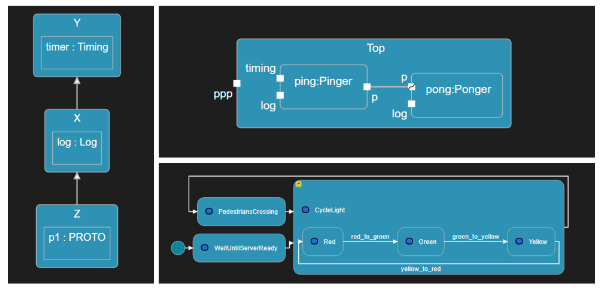
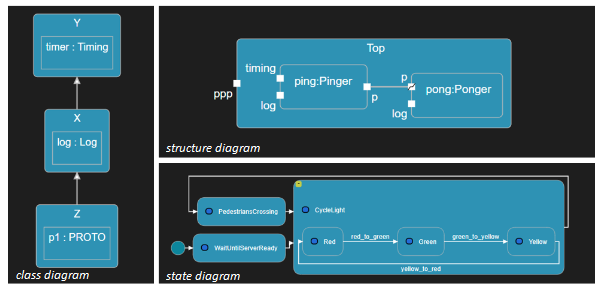
RIC-164: Doc for diagrams

Changed region(s): [[0.2812, 0.9278, 0.4062, 0.9897], [0.25, 0.4948, 0.4375, 0.5258], [0.0312, 0.9278, 0.1562, 0.9588]]

diff --git a/docs-sources/working-with-art/diagrams.md b/docs-sources/working-with-art/diagrams.md
@@ -1,0 +1,74 @@
+Art is a textual language but there is also a graphical notation for many parts of the language. You can therefore visualize (and to some extent also edit) some of the Art elements using graphical diagrams. The following diagrams can be used:
+
+* **State Diagram** Shows the state machine of a capsule or class. A single diagram can show all states, pseudo states and transitions also for hierarchical state machines.
+* **Structure Diagram** Shows the composite structure of a capsule. A single diagram can show all parts, ports and connectors also for hierarchical composite structures.
+* **Class Diagram** Shows how capsules, classes and protocols are related by means of inheritance relationships. Also shows ports and parts of capsules and events of protocols.
+
+The picture below shows an example of what these diagrams may look like:
+
+![](../images/diagrams.png)
+
+## Opening Diagrams
+To open a diagram from an Art file place the cursor inside an Art element. Bring up the context menu and invoke a command for opening a diagram for the Art element: **Open State Diagram**, **Open Structure Diagram** or **Open Class Diagram**. Note that all these three commands are always available, but if the selected Art element cannot be shown in the selected kind of diagram, you will get an error and no diagram will open.
+
+If the cursor is placed on an Art element that has a graphic representation in the form of a symbol or line in the diagram, for example a state in a state diagram, the symbol or line will be highlighted in the opened diagram by selecting it. You can use this feature as a way to navigate from an element in an Art file to the corresponding symbol or line in a diagram. If the diagram is already open, it will be made visible and the selection will be updated.
+
+You can also open diagrams from the context menu of an Art file in the Explorer view. In this case the Art file will be searched for an element that can be shown in the selected kind of diagram. If more than one such Art element is found, you will be prompted to pick the one to show in the diagram. For example:
+
+![](images/open-diagram-multiple-elements.png)
+
+## Navigating from Diagram to Art File
+If you double-click a symbol or a line in a diagram, the Art element that corresponds to that symbol or line will be highlighted in the Art file. Note that you need to double-click on the symbol or line itself, and not on a text label shown in the symbol or on the line. However, as an alternative you can instead hold down the ++ctrl++ key and then click on the text label. It will then become a hyperlink that navigates to the Art element that corresponds to that text label. You need to use this approach in case a symbol has multiple text labels each of which represent different Art elements. For example:
+
+![](images/ctrlclick-text-label.png)
+
+In state diagrams you can also double-click on icons that are shown for transitions that contain effect and/or guard code. The presence of effect code is indicated by a blue icon, and guard code with a yellow icon.
+
+![](images/effect-and-guard-icons.png)
+
+Double-clicking these icons will highlight the code snippets in the Art file.
+
+## Working with Diagrams
+
+### Zooming and Panning
+When a diagram is opened it is initially centered and with medium zoom level which makes all text labels big enough for reading. However, if the diagram is big all contents may not be visible unless you zoom out. You can zoom the diagram using either the mouse scroll wheel or by means of the two-finger zoom gesture on a touch pad. To get back to the original zoom level you can click the **Center** button in the Properties view.
+
+![](images/center.png)
+
+Alternatively you can use the command **Fit to Screen** which will set the zoom level so that the entire diagram fits the size of the diagram editor. Note that this command must be invoked from the general Command Palette or by means of the keyboard shortcut ++ctrl+shift+"F"++.
+
+It's also possible to work with a big diagram without zooming, but instead panning the viewport so that a different part of the diagram becomes visible. To pan the viewport click anywhere on the diagram and drag it in the direction you want to make visible. Note that there are no limits to panning which means you can move the viewport as far away from the center of the diagram as you like. Use the **Center** or **Fit to Screen** command for panning back the viewport to its original position. Note that if a symbol or line is selected, the **Center** command will move the viewport so that the selected symbol or line appears in the middle.
+
+### Collapsing and Expanding Symbols
+State and structure diagrams can be hierarchical. A state diagram is hierarchical if it contains a composite state with a nested state machine. A structure diagram is hierarchical if it contains a part typed by another capsule with nested parts. By default symbols that contain nested symbols are collapsed to minimize the size of the diagram:
+
+![](images/collapsed-symbols.png)
+
+To expand a collapsed symbol click the yellow button. The symbol will then be resized to show the nested symbols. Click the button again to collapse the symbol and hide the nested symbols. You can use the **Expand All** and **Collapse All** buttons in the Properties view to expand or collapse all symbols so that the full hierarchical diagram becomes visible.
+
+![](images/collapse-expand-all.png)
+
+Information about which symbols that are currently expanded will be remembered if you save the diagram. This information is stored in the file `.vscode/art_diagram_settings.json`.
+
+### Diagram Filters
+To avoid cluttered diagrams with too many text labels, certain information is by default hidden. If you click in the background of the diagram, the Properties view will show various filters that you can turn on or off for showing or hiding such additional information. Here is an example of the filters available for a state diagram:
+
+![](images/diagram-filters.png)
+
+Information about applied filters will be remembered if you save the diagram. This information is stored in the file `.vscode/art_diagram_settings.json`.
+
+### Elements in the Properties View
+The Properties view can show additional Art elements when you select a symbol or a line. For example, it shows internal transitions of a state.
+
+![](images/internal-transitions.png)
+
+Showing such elements in the diagram itself would risk making it cluttered, especially when there is a large number of elements.
+
+You can double-click the Art elements in the Properties view to highlight them in the Art file.
+
+### Renaming Elements
+You can rename an Art element shown in a diagram by double-clicking on the text label that shows its name. Alternatively select the symbol or line to which the text label belongs and press ++"F2"++.
+
+![](images/diagram-rename.png)
+
+Note that this is a "rename refactoring" and all references to the renamed element will be updated too. 

diff --git a/docs-sources/overview.md b/docs-sources/overview.md
@@ -5,3 +5,14 @@ It runs as an extension of Visual Studio Code or Eclipse Theia. Follow the [inst
 {$product.name$} supports [the Art language](../art-lang) which is an extension of the C++ language. It provides high-level concepts useful when designing stateful, event-driven realtime applications, such as capsules, state machines and protocols. It is a textual language, but also provides a graphical notation that includes class, state and structure diagrams.
 
 {$product.name$} translates Art files into efficient C++ code which can be compiled on any target system. The generated code makes use of the [Target RunTime System](../target-rts) which is a C++ library that implements the concepts of the Art language.
+
+## Art History
+The Art language as implemented in {$product.name$} builds on a foundation with a long history in industry. In the early 1990s the Canadian company ObjecTime Limited developed a language called [ROOM](https://www.researchgate.net/publication/221569173_Real-Time_Object-Oriented_Modeling_ROOM) to address the challenges of building realtime applications consisting of communicating state machines. ROOM introduced concepts such as capsules, protocols and ports and was first implemented in the tool ObjecTime Developer. This tool got adopted in a wide range of industrial domains for example telecom and embedded systems development.
+
+In 2000 ObjectTime was acquired by Rational Software and ObjecTime Developer was merged with Rational Rose, a UML modeling tool. The result was Rational Rose RealTime (Rose RT). At the same time many of the ROOM language concepts made its way into the, by then, new modeling language called UML-RealTime.
+
+In 2003 Rational Software was acquired by IBM which at the time was investing heavily in the Eclipse platform. As a result work started to create an Eclipse-based tool as the successor of Rose RT. This new product got the name Rational Software Architect RealTime Edition ([RSARTE](https://rsarte.hcldoc.com/help/topic/com.ibm.xtools.rsarte.webdoc/users-guide/overview.html?cp=26_0)) and was first released in 2007.
+
+In 2016 HCL entered a partnership with IBM, which led to a rebranded version of RSARTE called [HCL RTist](https://rtist.hcldoc.com/help/topic/com.ibm.xtools.rsarte.webdoc/users-guide/overview.html?cp=26_0).
+
+Work on {$product.name$} began in 2020 with the aim of supporting other IDEs than Eclipse. As part of this effort a textual language syntax, Art, was developed. Hence it's fair to describe the Art language as a new syntax for concepts that have a rather old history and have already been used in the industry for more than 30 years. It should also be mentioned that the [Target RunTime System](../target-rts) used in {$product.name$} is the same as is used in HCL RTist and IBM RSARTE. In fact, the implementation of this C++ library started with ObjectTime Developer and has since then been gradually extended and modernized.

diff --git a/docs-sources/target-rts/index.md b/docs-sources/target-rts/index.md
@@ -1,9 +1,11 @@
 The Target RunTime System (or TargetRTS for short) is a C++ library that is used by the code that is generated by {$product.name$}. When building the realtime application from the generated code, it links with a TargetRTS library that has been prebuilt for the platform (hardware, operating system etc) on which the realtime application will run.
 
+![](../images/TargetRTS.png)
+
 The TargetRTS provides C++ implementations for the concepts of [the Art language](../art-lang). The [APIs](https://rtist.hcldoc.com/help/topic/com.hcl.xtools.umldt.rt.targetrts.doc.isv/html/index.html) of these implementations are used by the generated code, but also by the embedded C++ code that you write inside the Art files. This documentation serves the following purposes:
 
 * Provide a general understanding of how the TargetRTS is structured and how it implements important concepts from the Art language.
-* Document the C++ APIs that you can use in embedded C++ code inside an Art file
-* Describe how to build the TargetRTS for a new target platform, including ways to customize it as required
+* Document the [C++ APIs](https://rtist.hcldoc.com/help/topic/com.hcl.xtools.umldt.rt.targetrts.doc.isv/html/index.html) that you can use in C++ code snippets within an Art file.
+* Describe how to build the TargetRTS for a new target platform, including ways to customize it as required.
 
 

diff --git a/docs-sources/working-with-art/art-editor.md b/docs-sources/working-with-art/art-editor.md
@@ -41,3 +41,9 @@ MyTransition: State -> X on timer.timeout
 * **Keywords** are keywords from the Art language that are valid to use at the cursor position. This also includes lexical tokens such as `:` or `.` where applicable. For example, after you have typed the name for the triggered transition shown above you can use Content Assist to learn that it may be followed by either a `->` or `:` token:
 
 ![](images/content-assist-keywords.png)
+
+## Renaming Elements
+To rename an Art element place the cursor on the element's name and press ++"F2"++ (or invoke the command **Rename Symbol** from the context menu). This performs a "rename refactoring" that updates all references to the renamed element too.
+
+!!! note 
+    Avoid renaming an element by simply editing its name. For {$product.name$} to understand that you want to rename an element, you need to use the approach described above.
